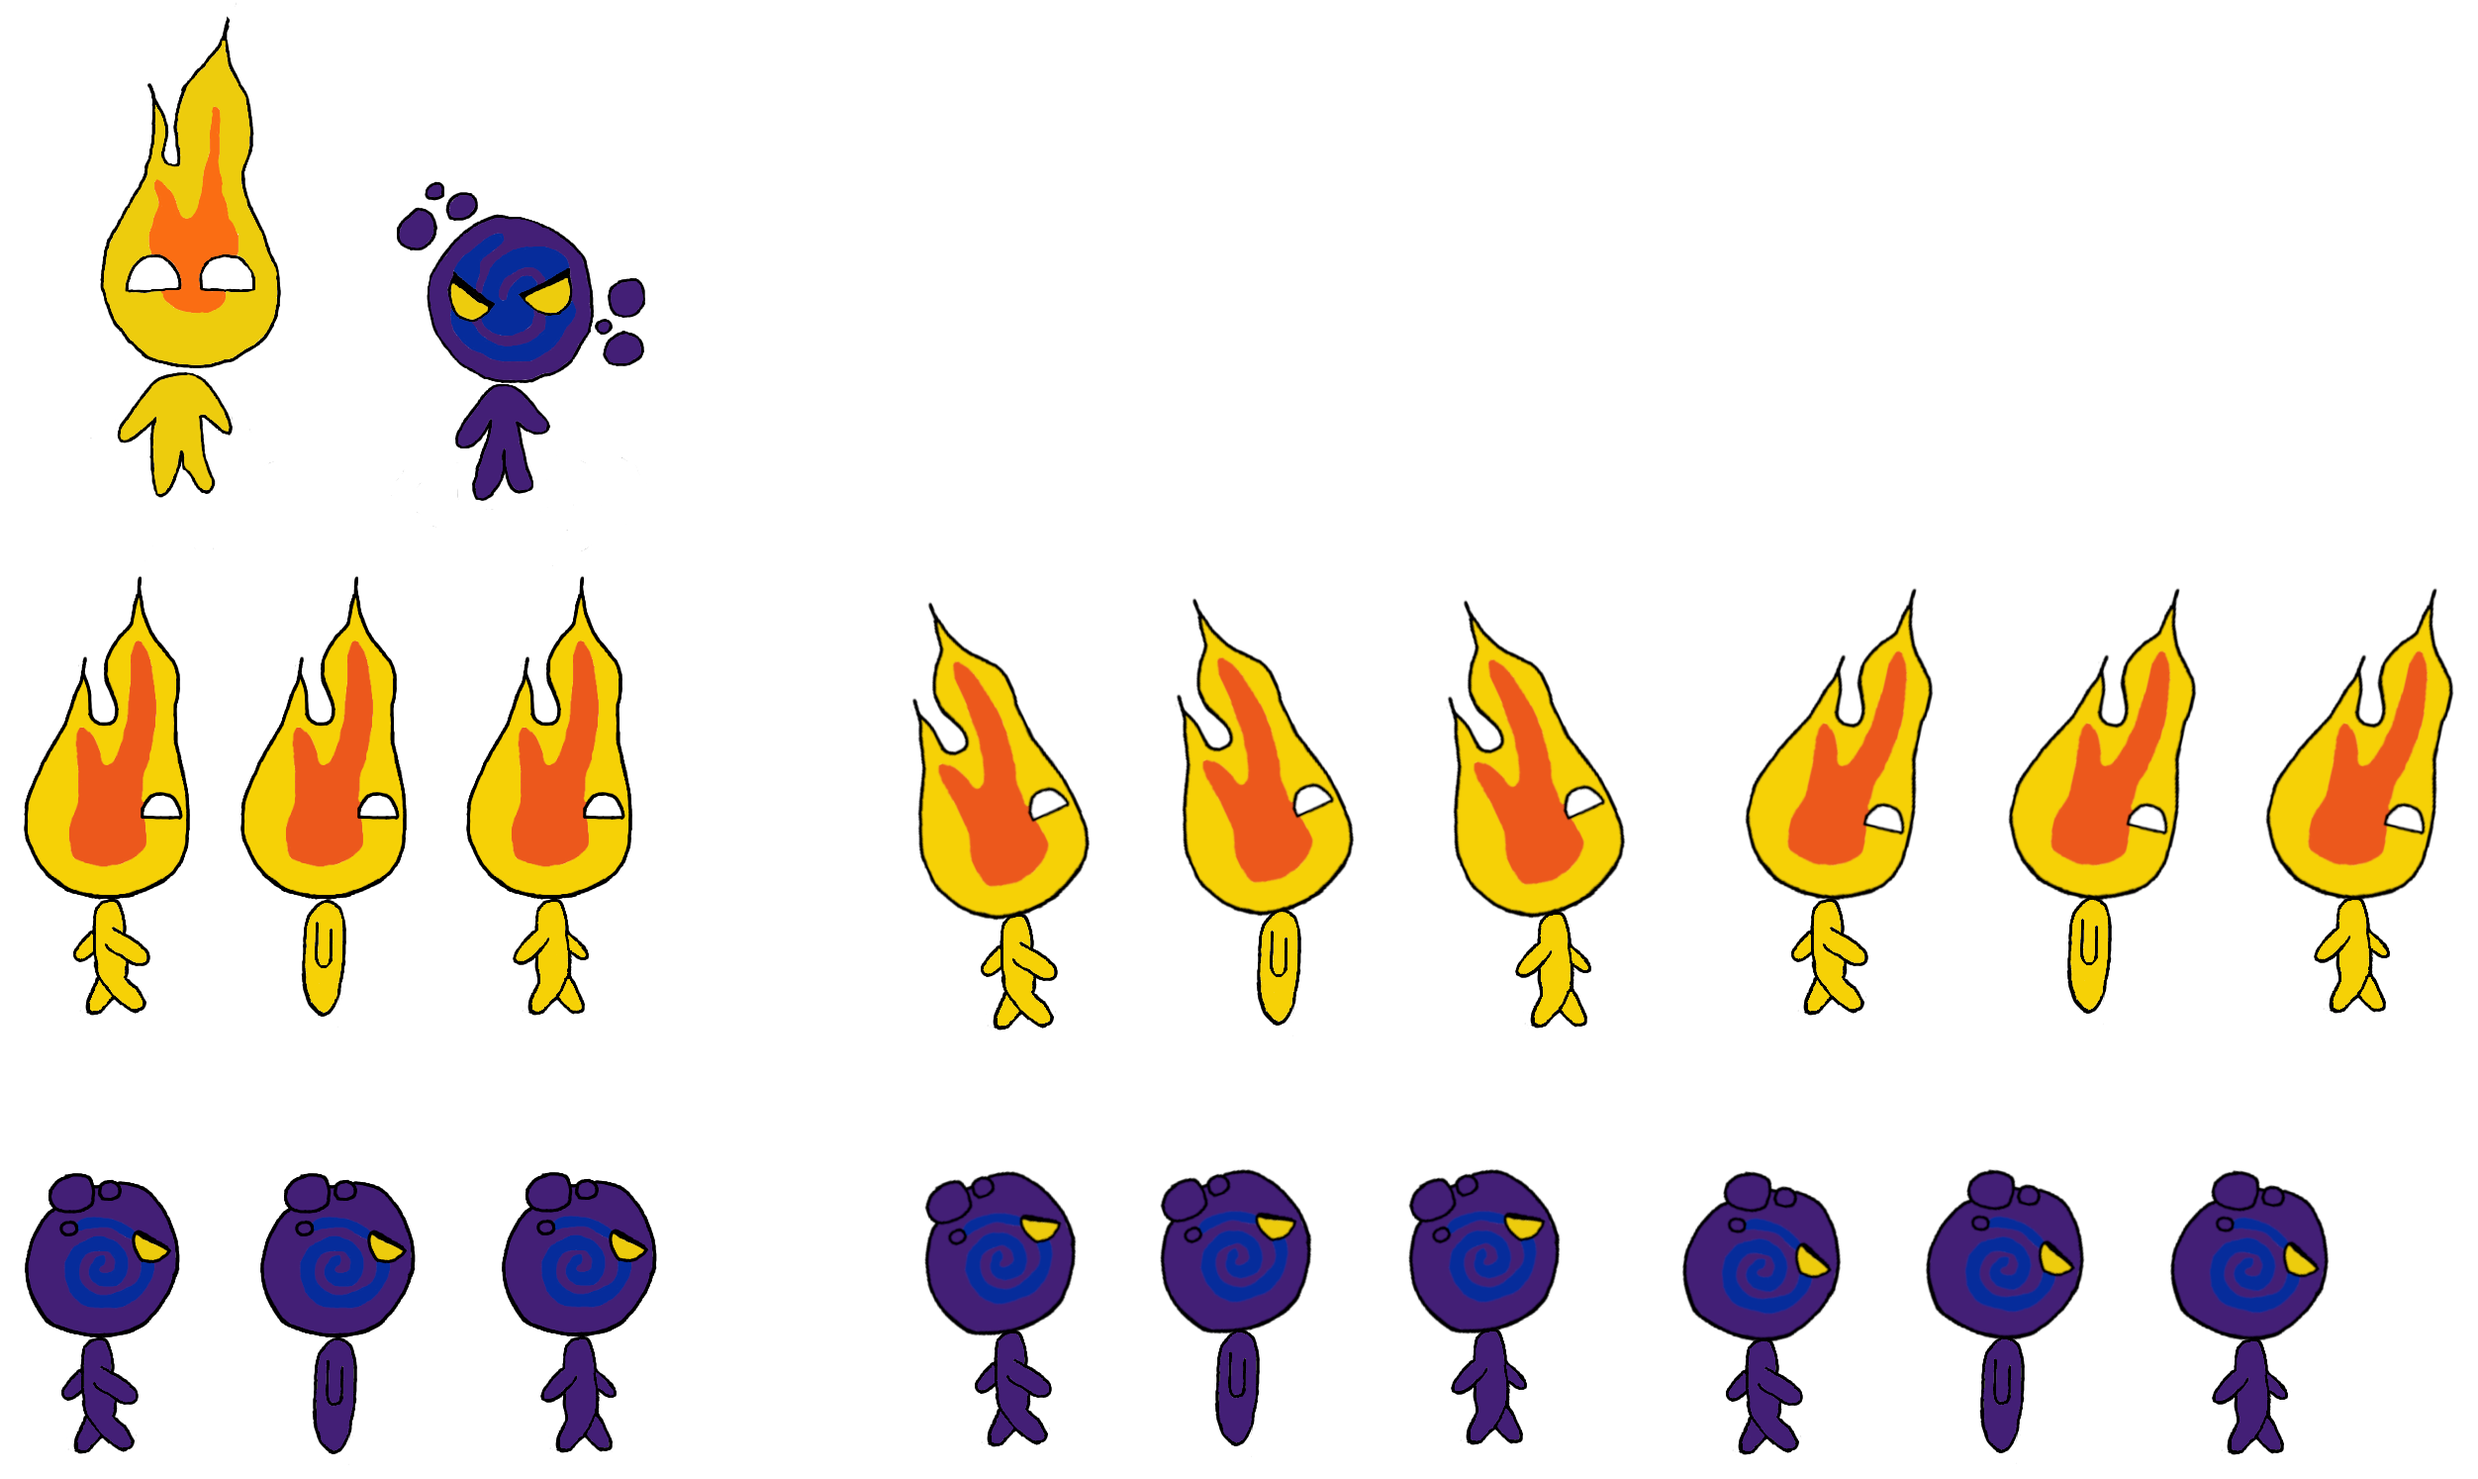
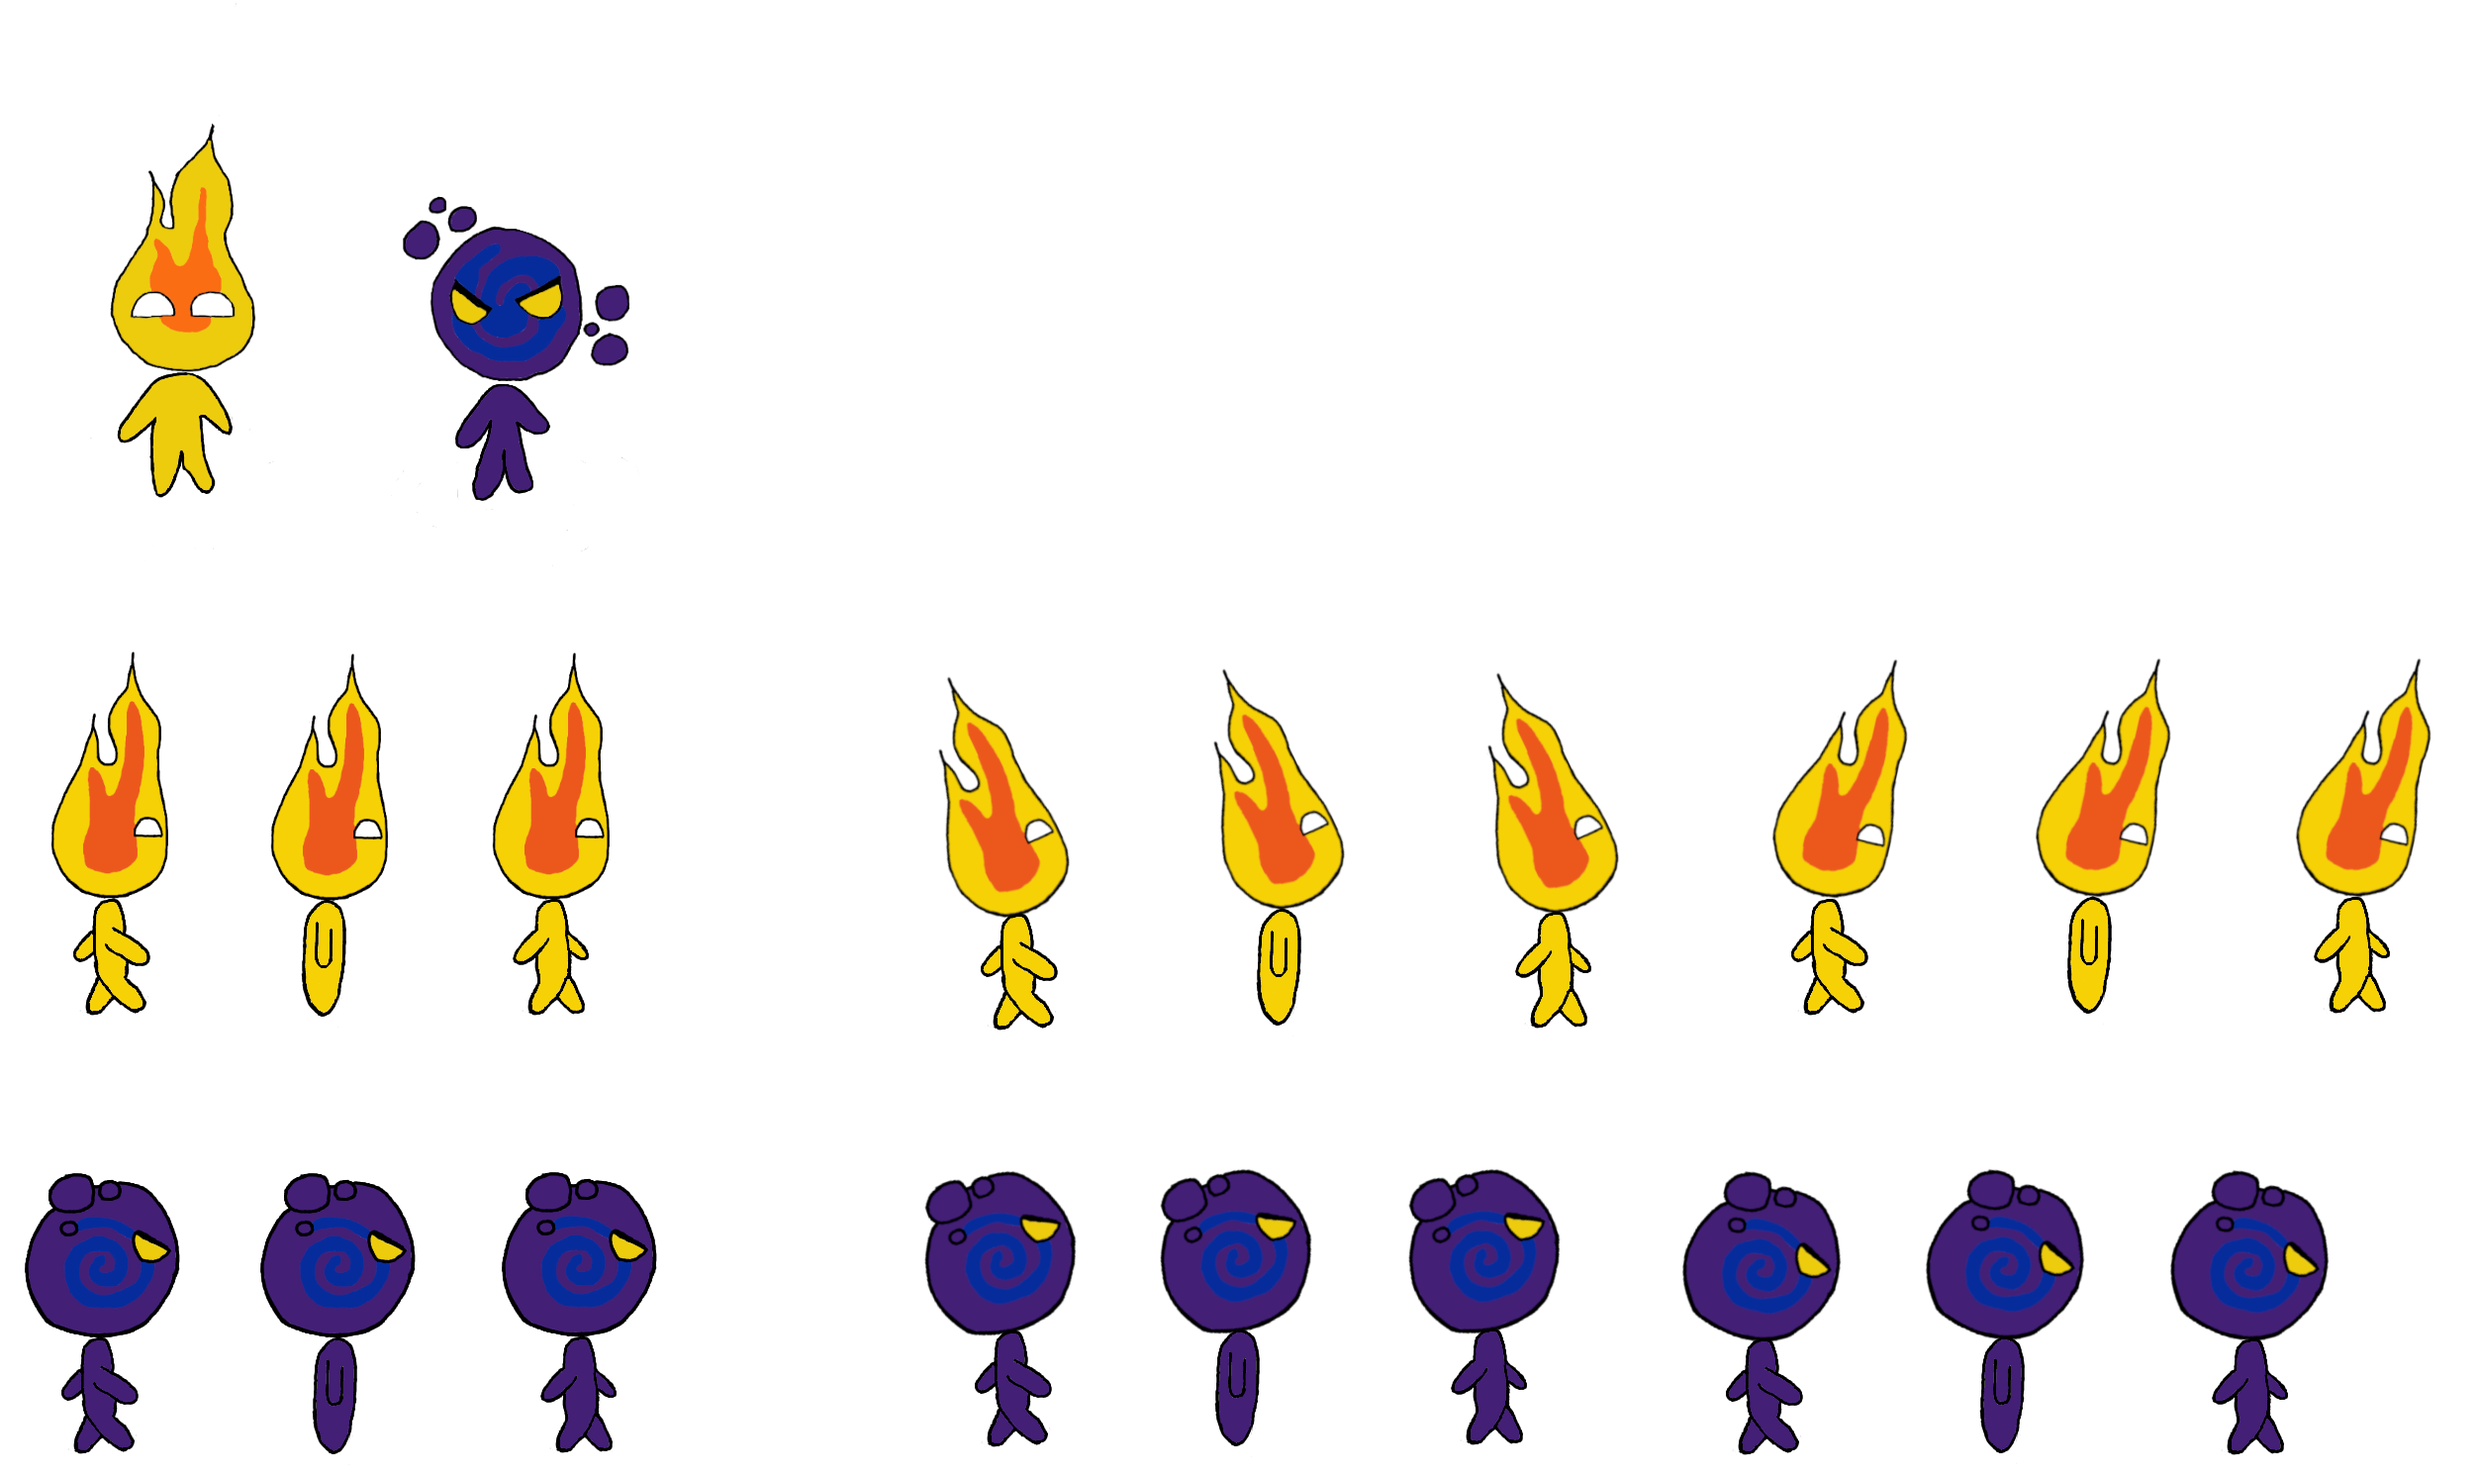
small sprite changes

diff --git a/FYP/FYP/src/TextureManager.cpp b/FYP/FYP/src/TextureManager.cpp
@@ -9,25 +9,25 @@ TextureManager::TextureManager()
 
 	//// SET INT RECS ////
 	//// LIGHT PLAYER ////
-	setFrames("lightIdle", std::vector<sf::IntRect> { sf::IntRect(90, 13, 210, 492) });
+	setFrames("lightIdle", std::vector<sf::IntRect> { sf::IntRect(108, 123, 153, 382) });
 
 	setFrames("lightRun", std::vector<sf::IntRect>
-	{ sf::IntRect(21, 576, 177, 451),
-		sf::IntRect(240, 579, 177, 451),
-		sf::IntRect(468, 579, 177, 451),
-		sf::IntRect(240, 579, 177, 451)});
+	{ sf::IntRect(49, 656, 124, 370),
+		sf::IntRect(270, 658, 124, 370),
+		sf::IntRect(495, 656, 124, 370),
+		sf::IntRect(270, 658, 124, 370)});
 
 	setFrames("lightJump", std::vector<sf::IntRect>
-	{ sf::IntRect(915, 601, 192, 442),
-		sf::IntRect(1183, 596, 192, 442),
-		sf::IntRect(1457, 602, 192, 442),
-		sf::IntRect(240, 579, 177, 451),
-		sf::IntRect(1760, 586, 199, 441),
-		sf::IntRect(2026, 585, 199, 441),
-		sf::IntRect(2284, 584, 199, 441)});
+	{ sf::IntRect(945, 682, 137, 359),
+		sf::IntRect(1224, 675, 137, 361),
+		sf::IntRect(1501, 678, 138, 361),
+		sf::IntRect(270, 658, 124, 370),
+		sf::IntRect(1790, 665, 138, 361),
+		sf::IntRect(2055, 664, 138, 361),
+		sf::IntRect(2319, 663, 137, 361)});
 
 	//// DARK PLAYER ////
-	setFrames("darkIdle", std::vector<sf::IntRect> { sf::IntRect(397, 182, 259, 326) });
+	setFrames("darkIdle", std::vector<sf::IntRect> { sf::IntRect(406, 197, 231, 309) });
 
 	setFrames("darkRun", std::vector<sf::IntRect>
 	{ sf::IntRect(23, 1184, 163, 291),
@@ -39,7 +39,7 @@ TextureManager::TextureManager()
 	{ sf::IntRect(931, 1180, 160, 283),
 		sf::IntRect(1169, 1180, 160, 283),
 		sf::IntRect(1421, 1177, 160, 283),
-		sf::IntRect(260, 1183, 169, 228),
+		sf::IntRect(260, 1183, 169, 291),
 		sf::IntRect(1698, 1180, 165, 291),
 		sf::IntRect(1944, 1178, 165, 291),
 		sf::IntRect(2190, 1180, 165, 291)});

diff --git a/FYP/FYP/src/Player.cpp b/FYP/FYP/src/Player.cpp
@@ -44,7 +44,7 @@ Player::Player(b2World * world, const sf::Vector2f & position, const sf::Vector2
 	if (cat == 0x0010)
 	{
 		texMan->getFrames("lightIdle", this);
-		setSize(sf::Vector2f(0.00275f, 0.00275f));
+		setSize(sf::Vector2f(0.0025f, 0.0025f));
 	}
 	else if (cat == 0x0100)
 	{
@@ -66,7 +66,7 @@ void Player::update(float timestep)
 	currSprite.setScale(sf::Vector2f(0.00275 - (int)flip * 0.0055, 0.00275f));	// 1 - (int)flip * 2
 	b2Vec2 pos = body->GetPosition();
 	if (player == 0x0010)
-		currSprite.setPosition(pos.x, pos.y - 0.3f);
+		currSprite.setPosition(pos.x, pos.y - 0.2f);
 	else if (player == 0x0100)
 		currSprite.setPosition(pos.x, pos.y - 0.1f);
 }
